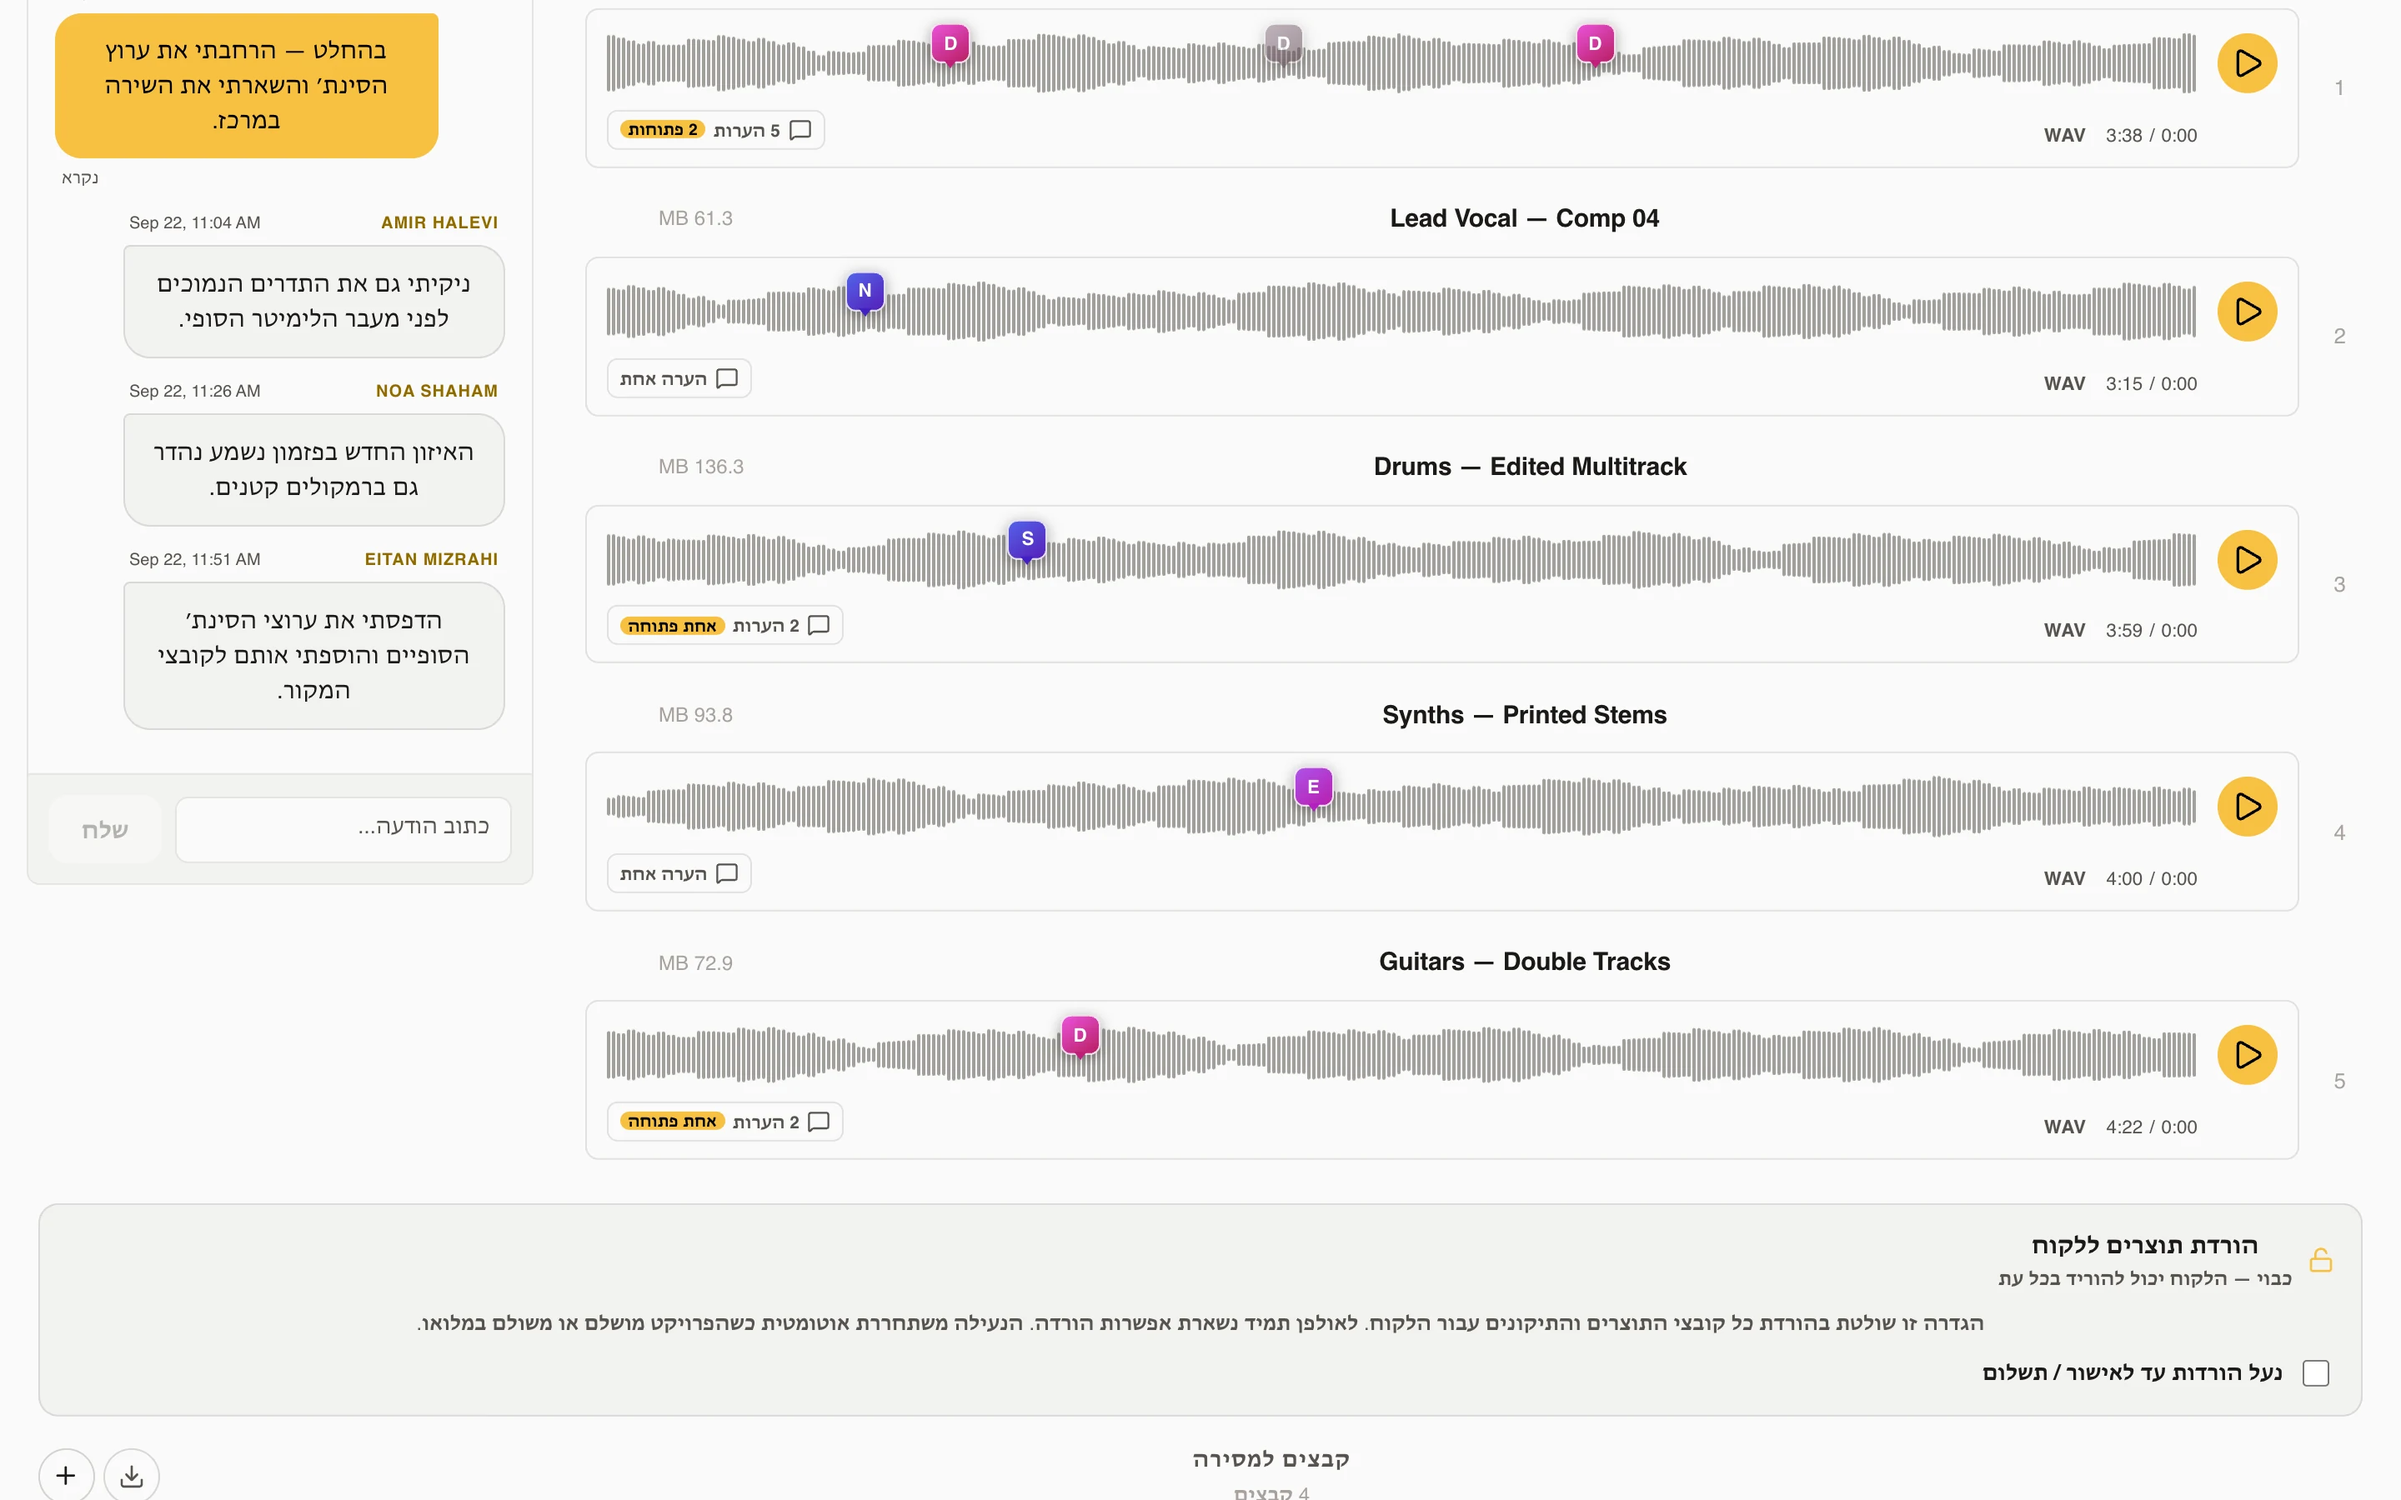
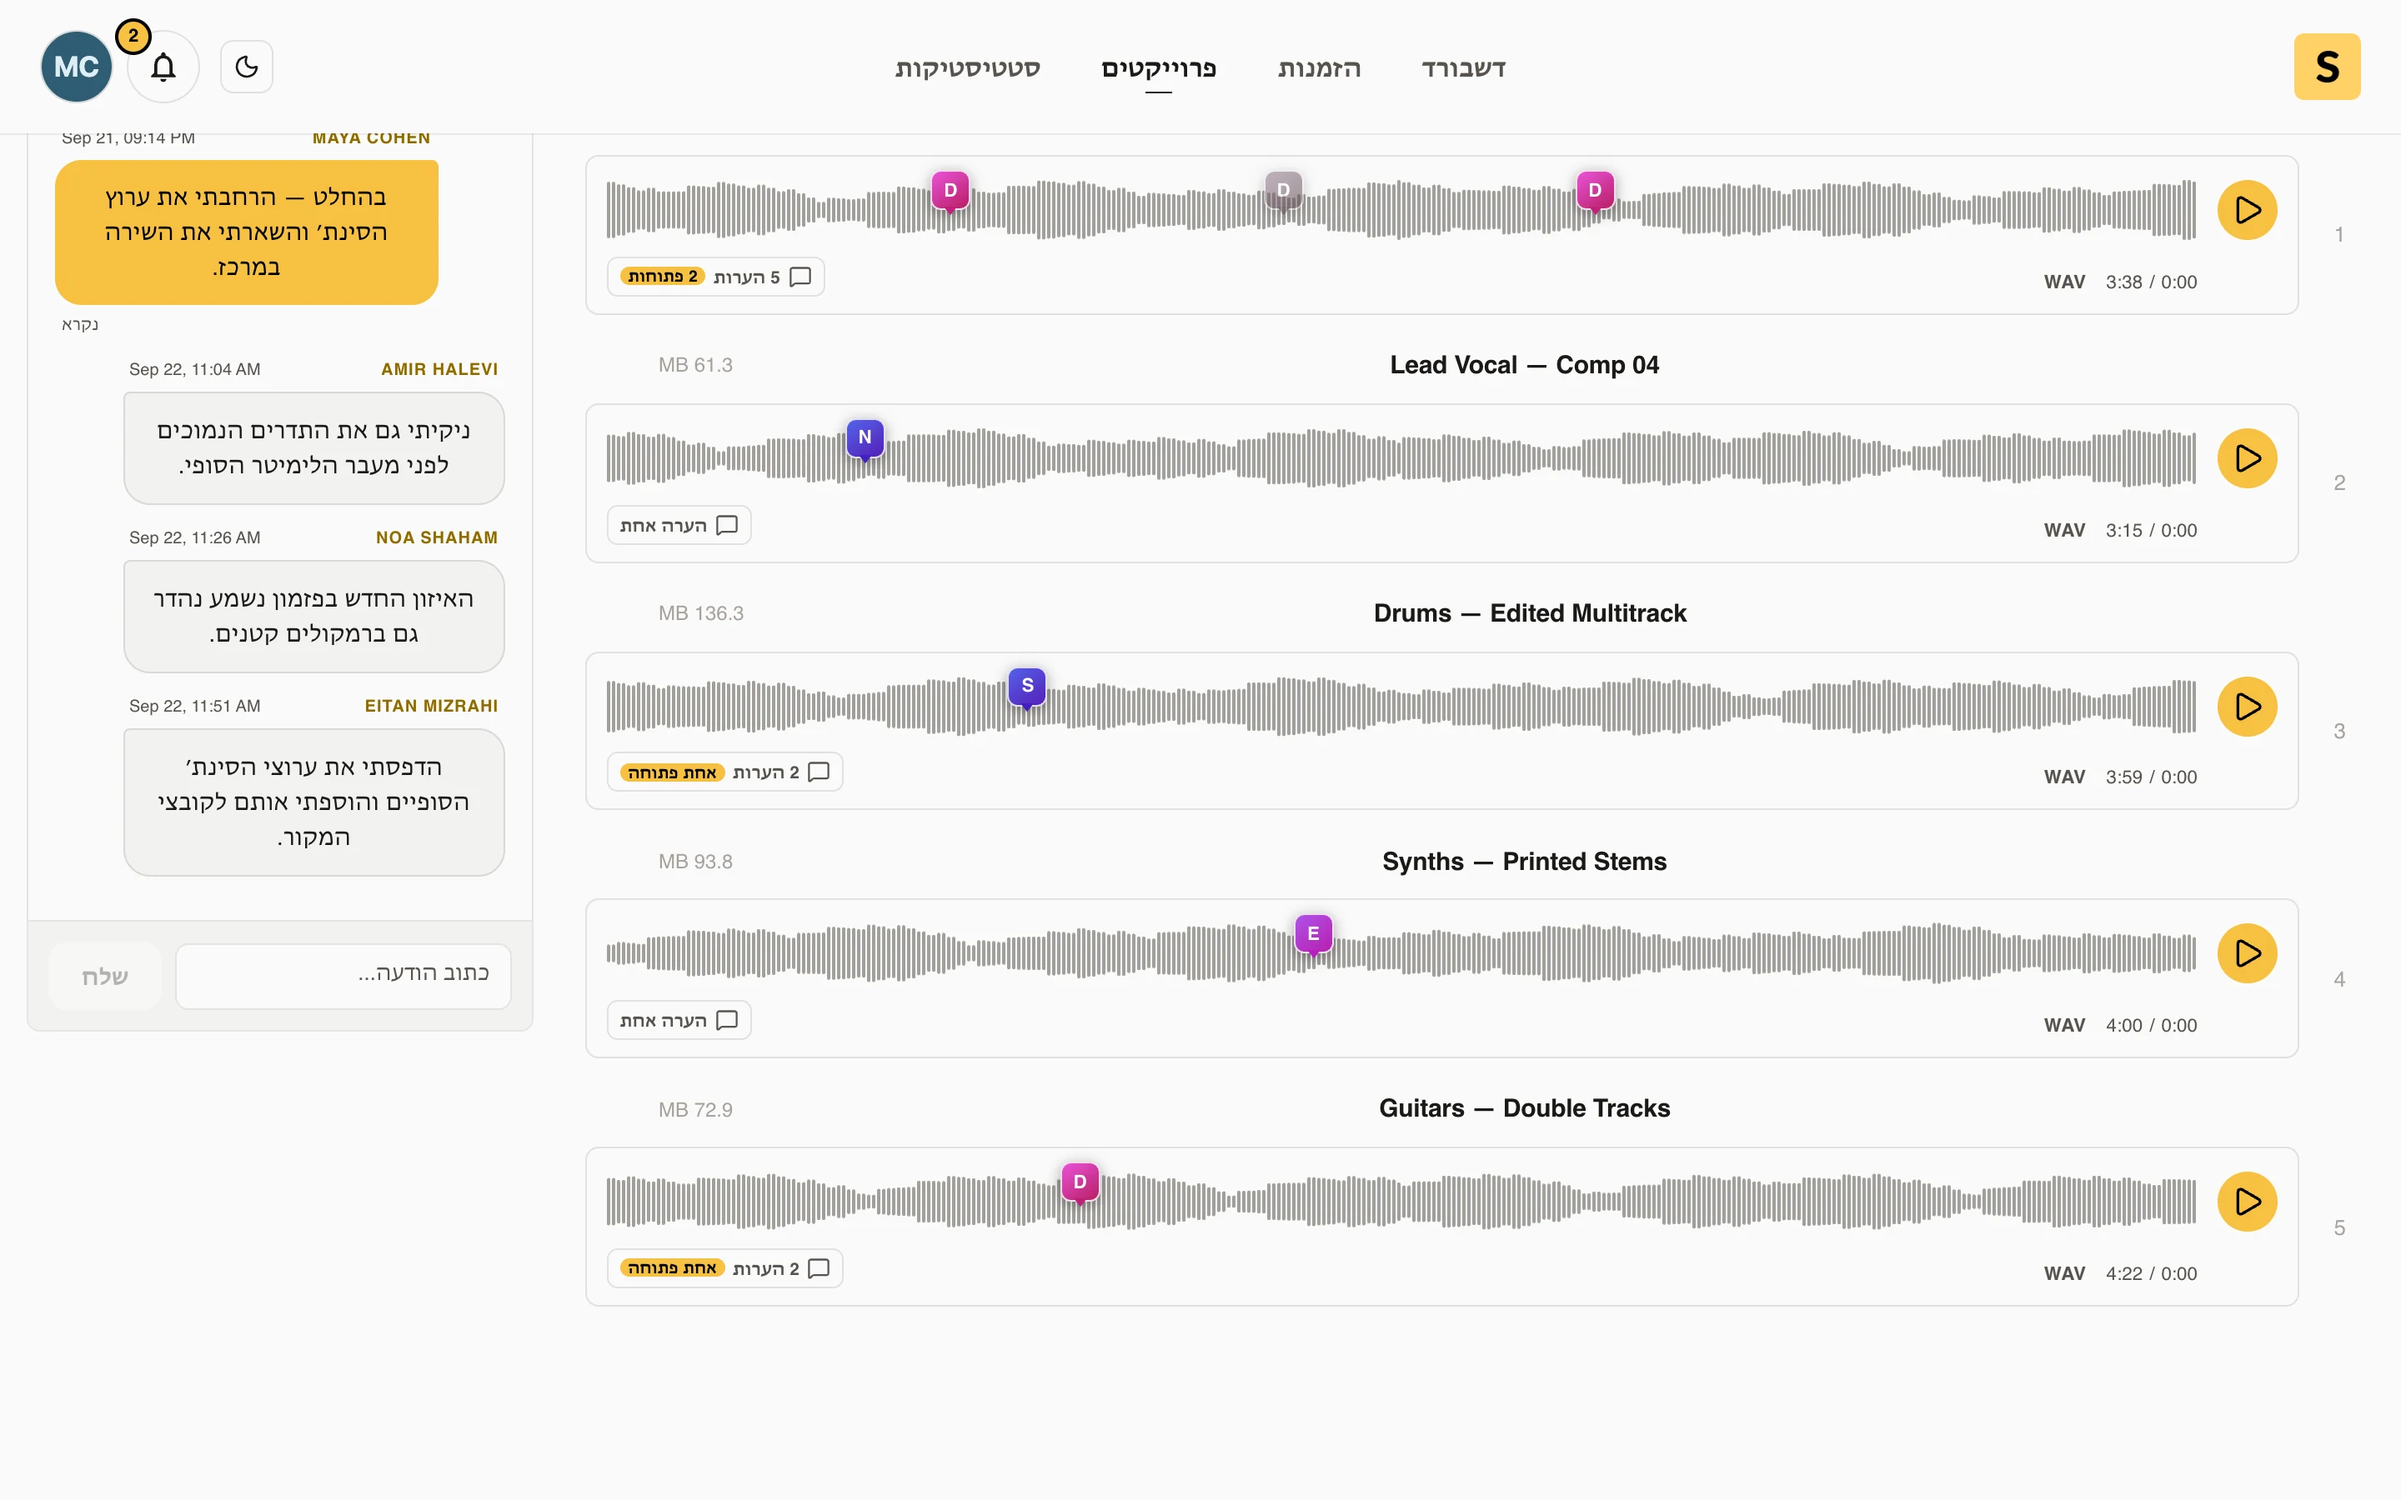
Reframe the hero workspace capture above deliverables.
Hide deliverable panels in the desktop project shot so densified tracks stay framed without the downloads section.

diff --git a/tools/app-store-screenshots/screenshots.config.ts b/tools/app-store-screenshots/screenshots.config.ts
@@ -835,8 +835,23 @@ const scenes: ScreenshotScene[] = [
     device: 'desktop-1440',
     template: 'full-bleed',
     textAlign: 'center',
-    // SOURCE FILES + tracks + chat. Transform-from-0; -88 matches prior hero framing.
-    actions: [{ type: 'scroll', selector: '.project-file-uploader--source', offsetY: -88 }],
+    // SOURCE FILES + tracks + chat. Hide deliverables so the densified page
+    // doesn't push that panel into the 16:10 hero crop.
+    actions: [
+      {
+        type: 'style',
+        css: `
+          .project-detail__section--tracks:has(.project-file-uploader--deliverable),
+          .project-detail__section--tracks:has(.project-file-uploader--revision),
+          .project-file-uploader--deliverable,
+          .project-file-uploader--revision,
+          .download-lock {
+            display: none !important;
+          }
+        `
+      },
+      { type: 'scroll', selector: '.project-file-uploader--source', offsetY: 0 }
+    ],
     deviceTransform: { scale: 0.72, y: 100, shadow: true },
     capturePublish: {
       directory: 'public/images/features-generated',
@@ -946,7 +961,21 @@ const scenes: ScreenshotScene[] = [
     template: 'dual',
     // Desktop: same source-files framing as desktop-project-workspace.
     // Mobile: open a track thread so the dual still shows cross-device review.
-    primaryActions: [{ type: 'scroll', selector: '.project-file-uploader--source', offsetY: -88 }],
+    primaryActions: [
+      {
+        type: 'style',
+        css: `
+          .project-detail__section--tracks:has(.project-file-uploader--deliverable),
+          .project-detail__section--tracks:has(.project-file-uploader--revision),
+          .project-file-uploader--deliverable,
+          .project-file-uploader--revision,
+          .download-lock {
+            display: none !important;
+          }
+        `
+      },
+      { type: 'scroll', selector: '.project-file-uploader--source', offsetY: 0 }
+    ],
     secondaryActions: [
       { type: 'scroll', selector: '.project-file-uploader--source' },
       { type: 'click', selector: '.project-file-uploader--source .remote-audio-player__thread-toggle' },
